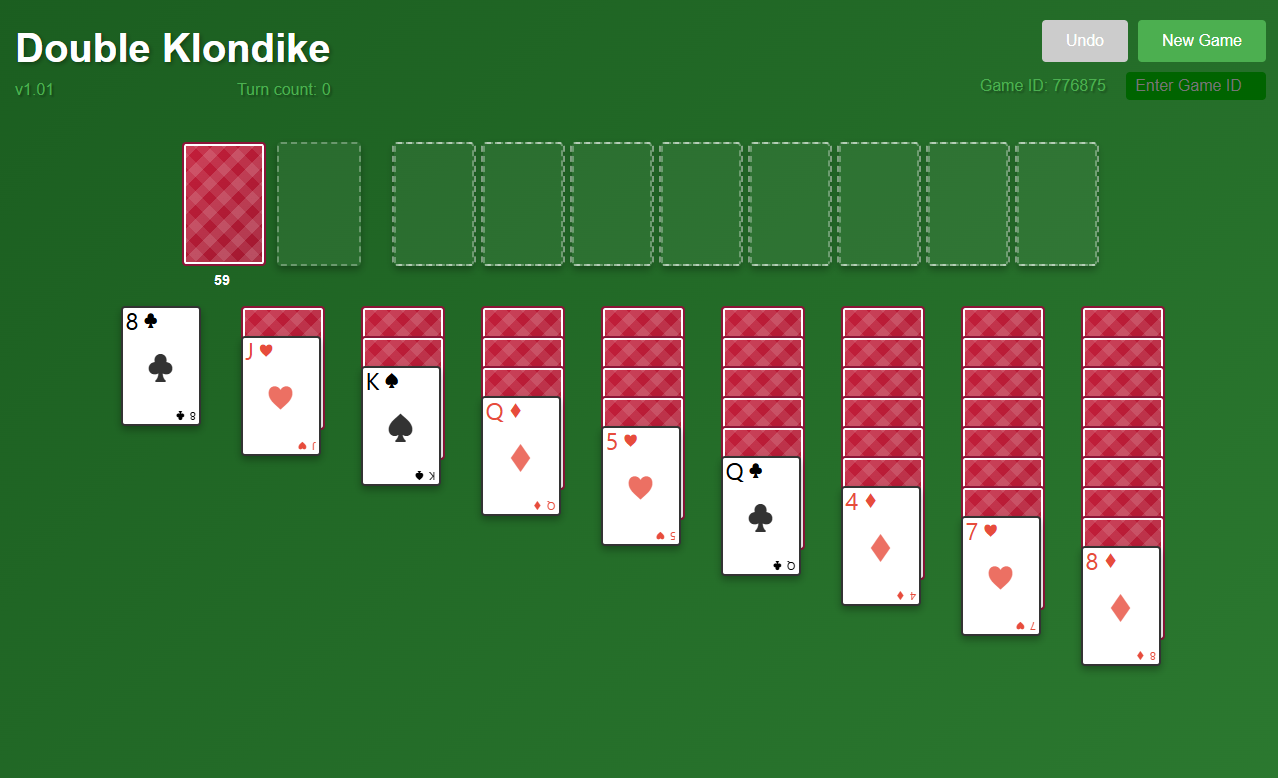
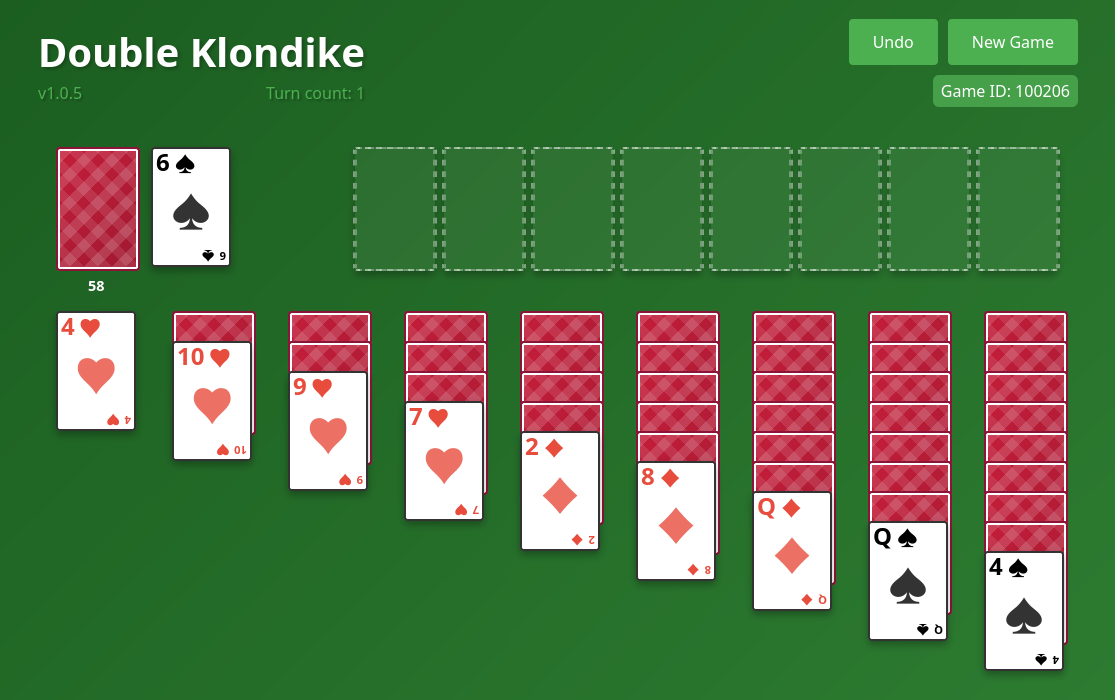
link to github, game ID style, new screenshot

diff --git a/src/App.tsx b/src/App.tsx
@@ -151,7 +151,14 @@ function App(): React.ReactElement {
         <div className="title-section">
           <h1>Double Klondike</h1>
           <div className="subtitle">
-            <p className="version">v{pkg.version}</p>
+            <a
+              href="https://github.com/sean5446/2klondike/activity"
+              className="version"
+              target="_blank"
+              rel="noopener noreferrer"
+            >
+              v{pkg.version}
+            </a>
             <p className="turn-count">Turn count: {history.length}</p>
           </div>
         </div>

diff --git a/src/App.css b/src/App.css
@@ -61,6 +61,18 @@
   text-shadow: 2px 2px 2px rgba(0, 0, 0, 0.3);
 }
 
+.version,
+.version:link,
+.version:visited,
+.version:active {
+  color: rgb(76, 175, 80);
+  text-decoration: none;
+}
+
+.version:hover {
+  text-decoration: underline;
+}
+
 .turn-count {
   margin: 0;
   font-size: 1rem;
@@ -303,12 +315,11 @@
 }
 
 .game-id-link {
-  color: #0e4d2b;
+  color: white;
   text-decoration: none;
-  font-weight: 600;
   padding: 4px 8px;
   border-radius: 6px;
-  background: rgba(255, 255, 255, 0.7);
+  background: #45a049;
 }
 
 .game-id-link:hover {
